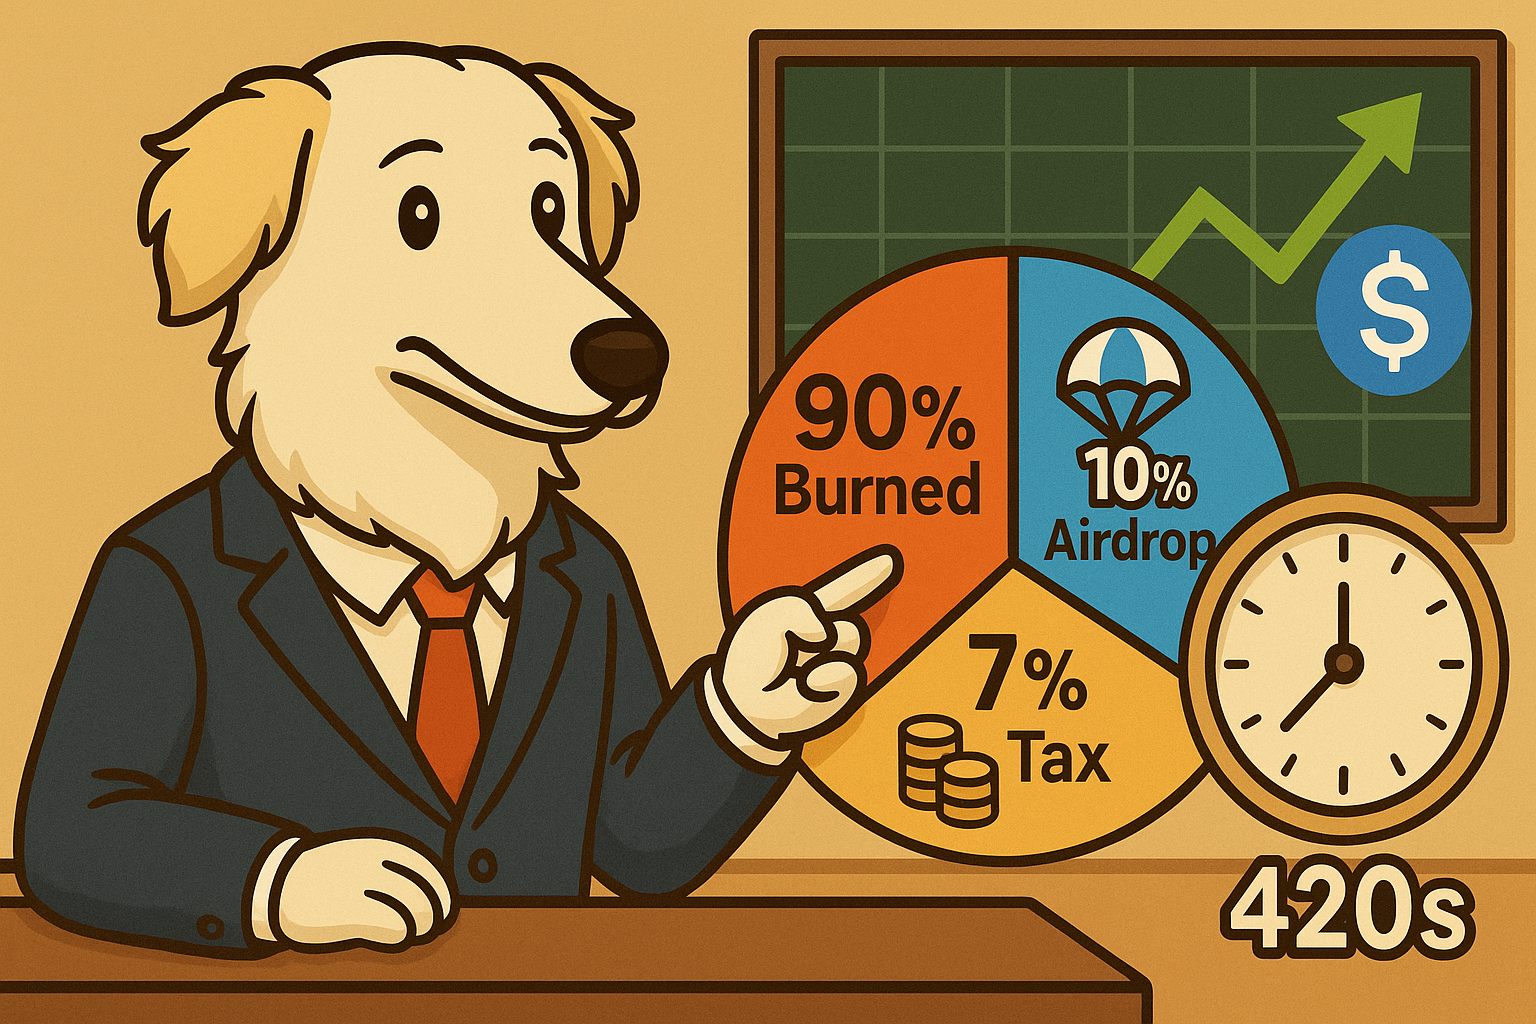
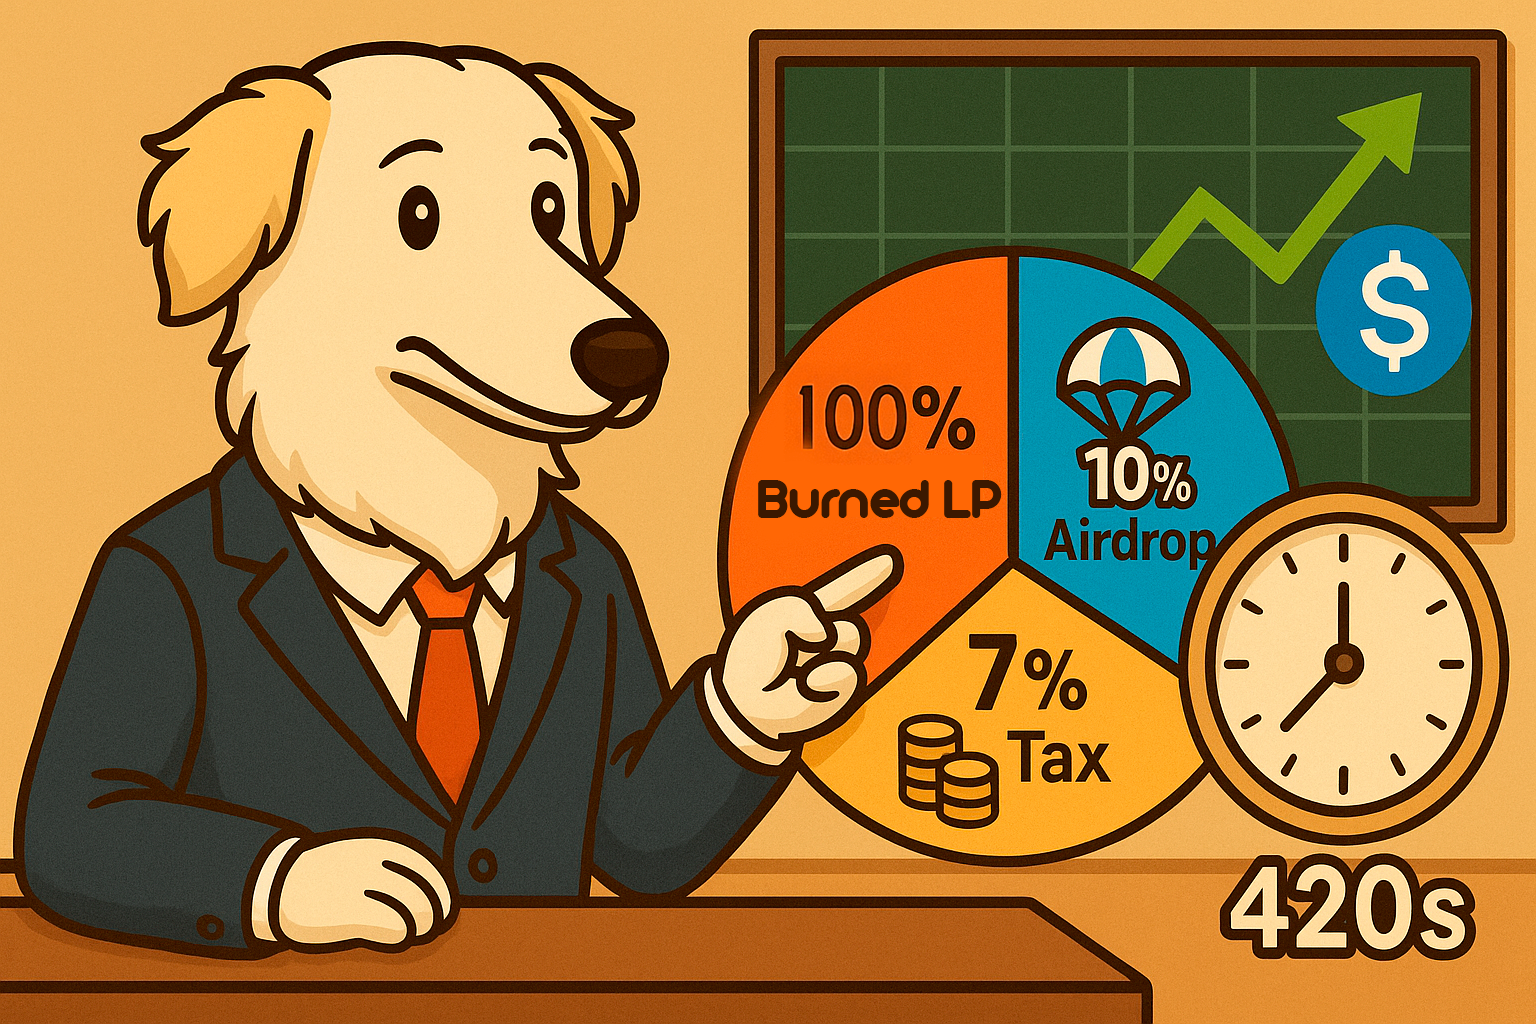
push

diff --git a/index.html b/index.html
@@ -282,7 +282,7 @@ l-3.7-5.1L35.7,33.1h8.1l12.3,17.2l3.7,5.1l16.6,23.4h-7.8L55.3,60.2z"></path></sv
             <div class="u-layout-row" style="">
               <div class="u-align-left u-container-align-left u-container-style u-layout-cell u-palette-1-base u-right-cell u-size-60 u-size-xs-60 u-layout-cell-1">
                 <div class="u-container-layout u-valign-middle-lg u-valign-middle-md u-valign-middle-sm u-valign-middle-xs u-container-layout-1">
-                  <p class="u-align-left u-custom-font u-text u-text-black u-text-1"> 10% Airdrop: 10% of the total supply is allocated to airdrops to reward early adopters and encourage community participation.<br>&nbsp;<br>90% Burned: 90% of the total supply will be burned to reduce the circulating supply, increasing scarcity and long-term value.<br>&nbsp;<br>7% Tax: Every transaction with Borsoi is subject to a 7% tax, which funds rewards for holders and supports network sustainability. <br>
+                  <p class="u-align-left u-custom-font u-text u-text-black u-text-1"> 10% Airdrop: 10% of the total supply is allocated to airdrops to reward early adopters and encourage community participation.<br>&nbsp;<br>90% Burned: 100% of the liquidity is burned by renouncing the minting rights, ensuring the asset’s stability and security for buyers. This process removes the ability to mint more tokens, reducing potential inflation and increasing long-term scarcity and value.<br>&nbsp;<br>7% Tax: Every transaction with Borsoi is subject to a 7% tax, which funds rewards for holders and supports network sustainability. <br>
                     <br>Rewards Every 420 Seconds: Borsoi holders receive automatic rewards in USDC every 420 seconds, based on the accumulated transaction fees.
                   </p>
                 </div>
